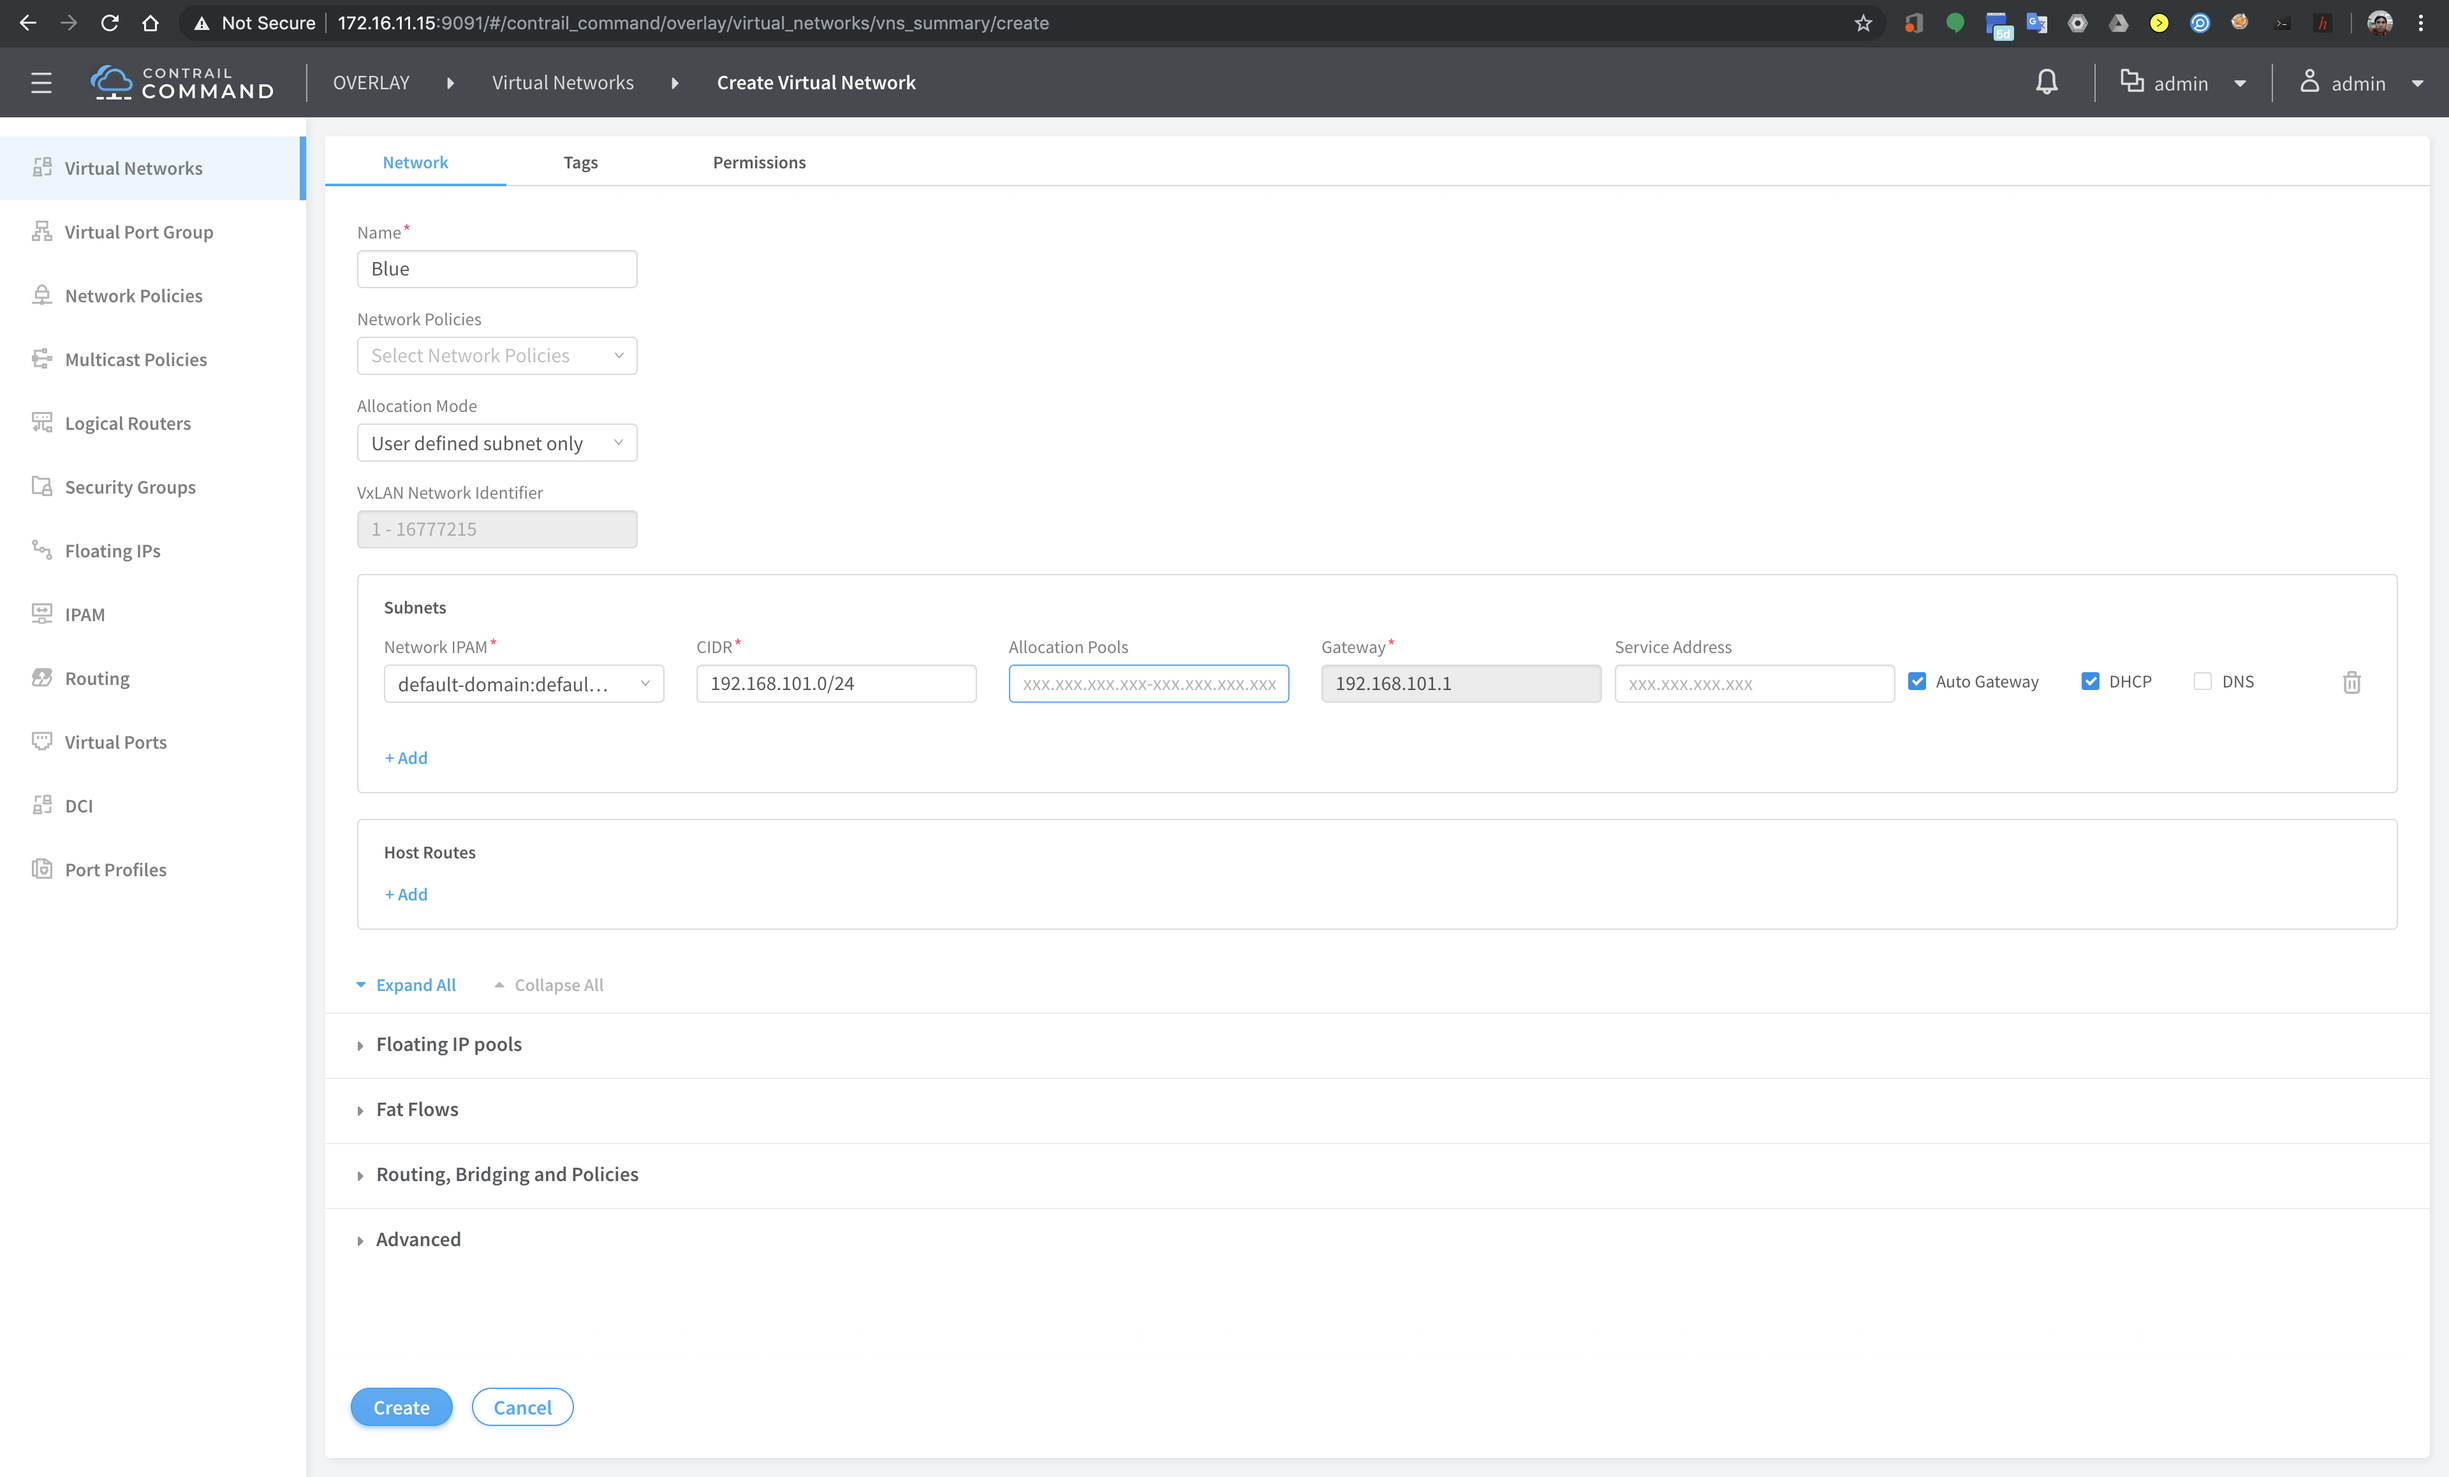
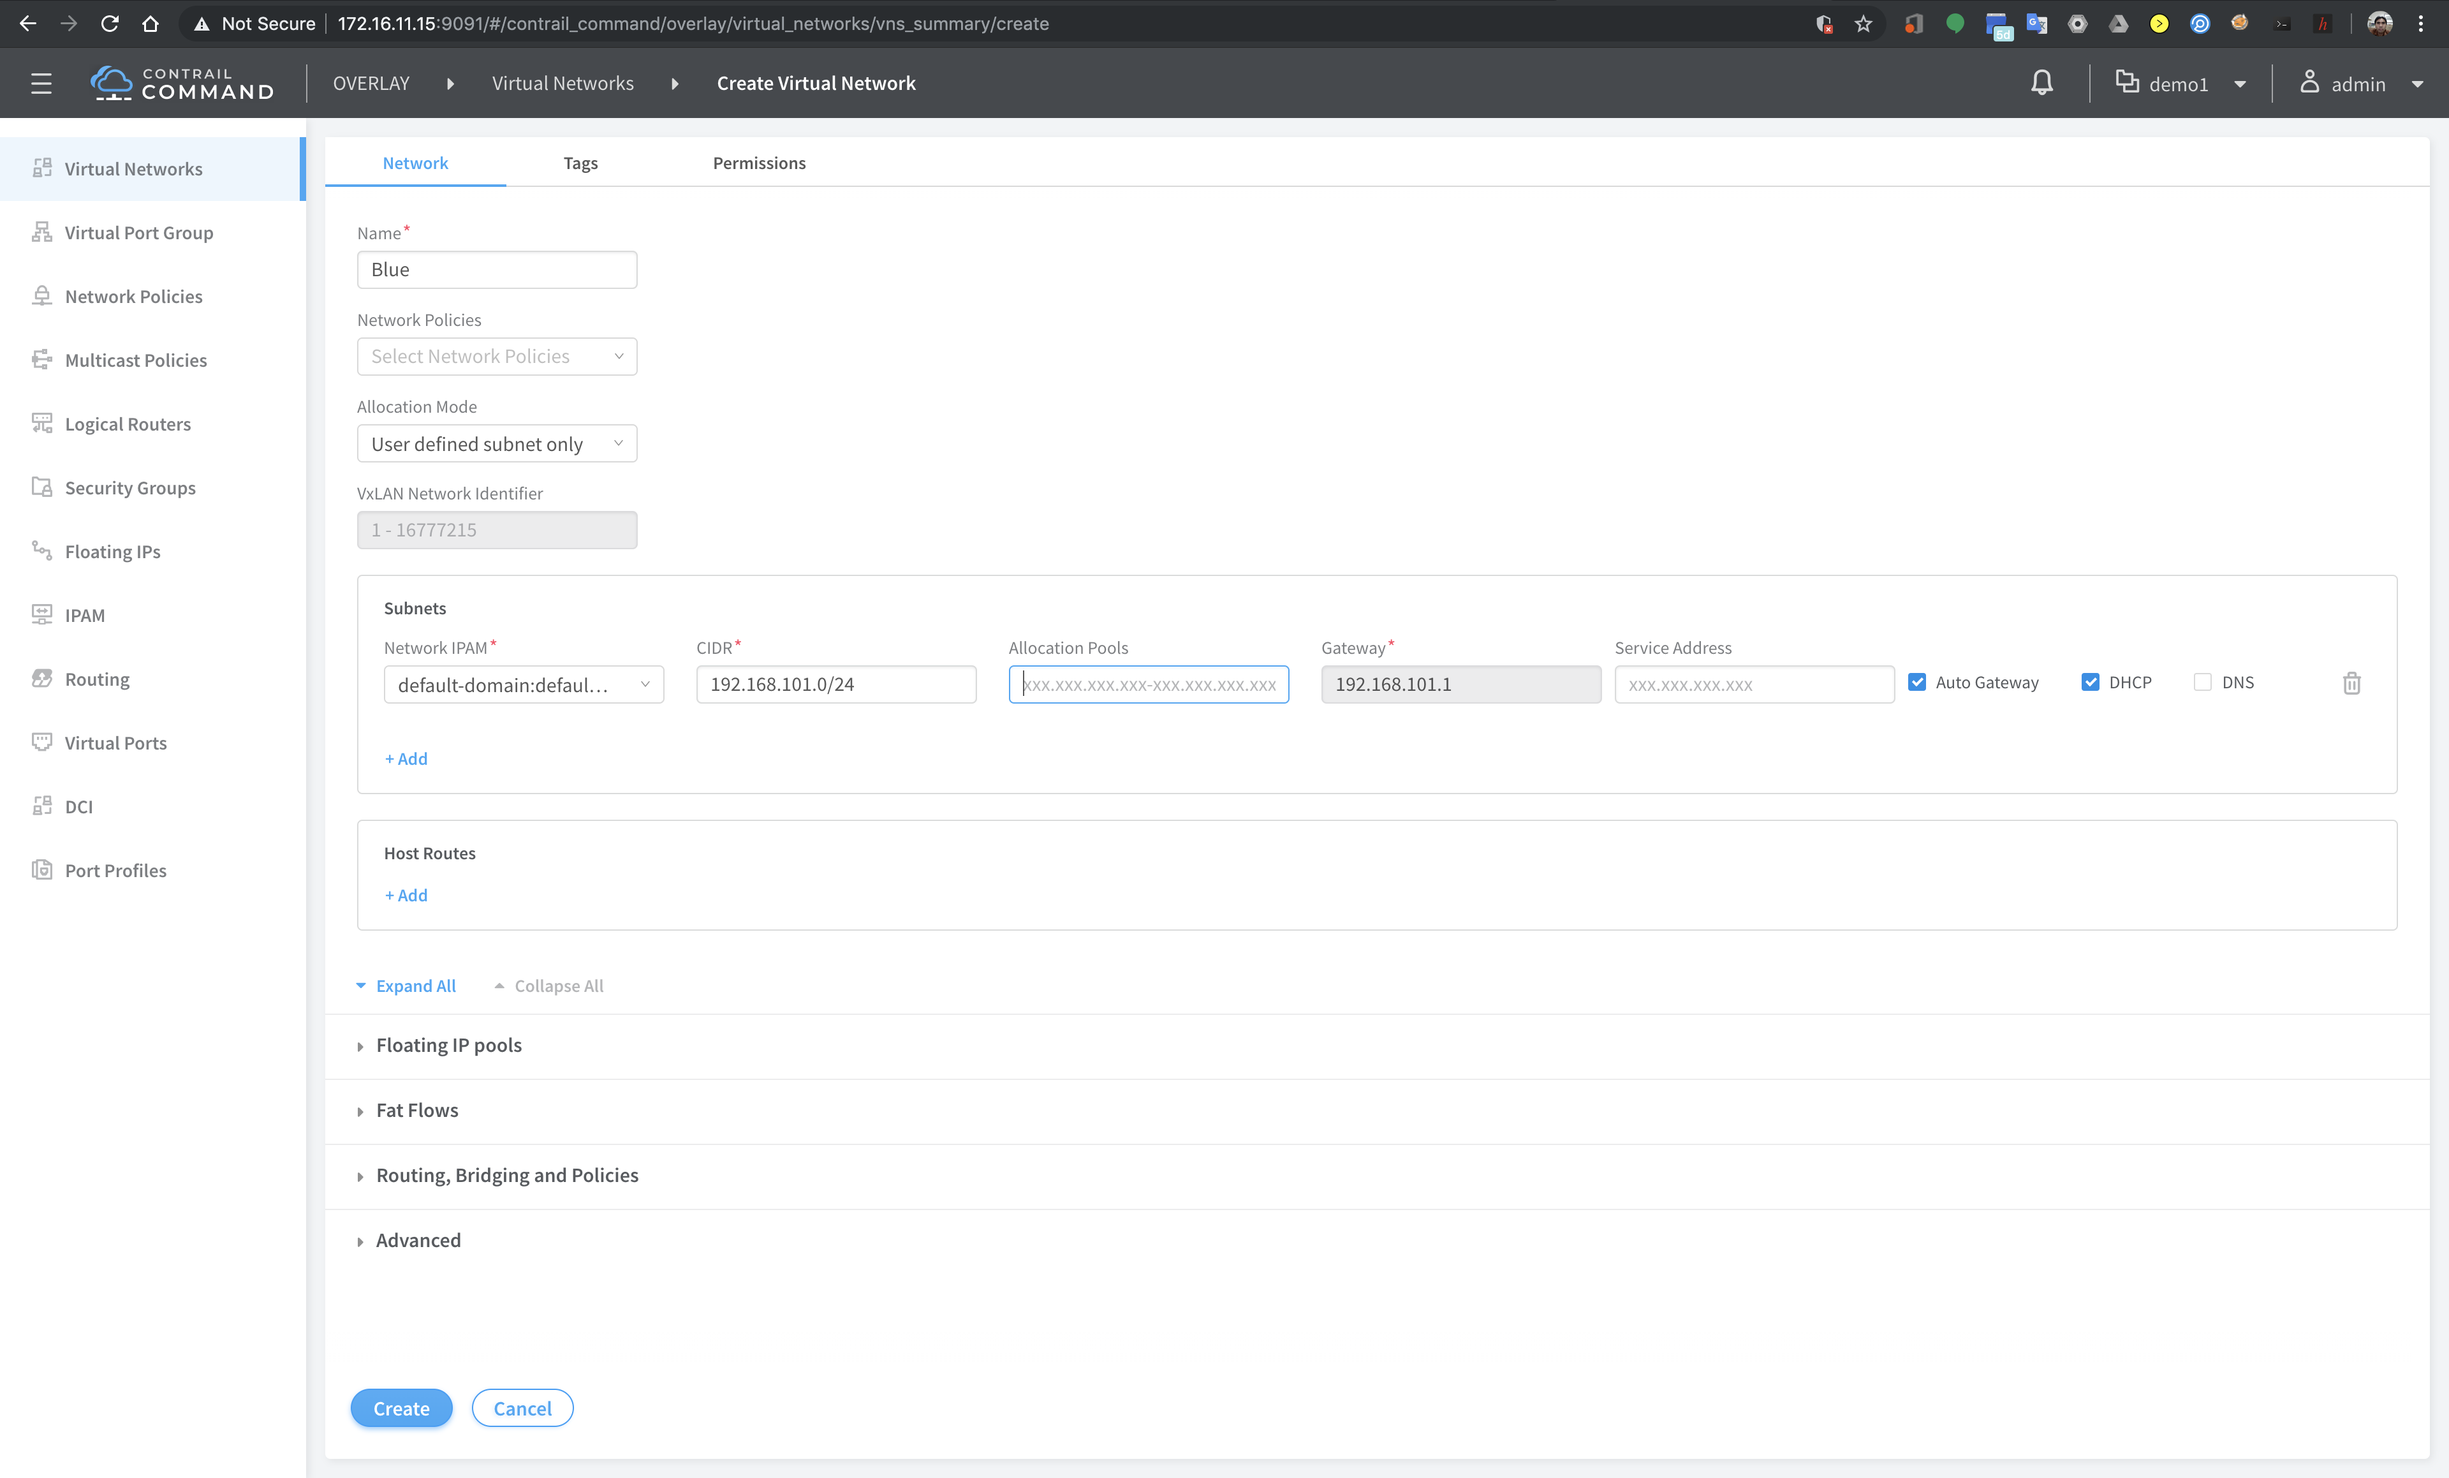
lab4

Changed region(s): [[0.8125, 0.0311, 0.9062, 0.0622]]

diff --git a/contrail/contrail_lab_exercise/lab4/README.md b/contrail/contrail_lab_exercise/lab4/README.md
@@ -1,0 +1,55 @@
+# Extending VN to TOR and attaching BMS
+In this exercise, Virtual network will be extended to TOR Switch and BMS will be connected to the TOR switch
+
+Steps
+1. Access svr1 through its management interface, and record the mac address of port eth1
+![lab4a](images/lab4a.png)
+2. Access switch `leaf` and verify that there is no configuration for interface xe-0/0/2 (where the BMS SVR1 is connected to)
+![lab4b](images/lab4b.png)
+3. Access [contrail command dashboard](https://172.16.11.15:9091)
+4. Select project `Demo1`
+5. From menu, select `Infrastructure` > `Server` and click `create`
+6. For the parameters, use the following :
+	- choose mode : Detailed
+	- workload type : Baremetal
+	- name : svr1_bms
+	- network interfaces:
+		- name : eth1
+		- mac address : <enter the mac address from step 1>
+		- Device/TOR - Interface: leaf1 - xe-0/0/2 (based on the topology)
+   Click `Create`
+![lab4c](images/lab4c.png)
+![lab4d](images/lab4d.png)
+6. From menu, select `Workloads` > `Instances` and click `Create`
+7. Create an instance with the following parameter
+	- Server type : Existing Baremetal server
+	- instance name : svr1
+	- Baremetal node : svr1_bms (the one created on step 5)
+	- Interface : XXX (select interface from svr1_bms)
+	- Virtual network : Blue
+	- VLAN ID : 101
+	- security group : default
+	- Native/untagged: checked
+   Click `create`
+![lab4e](images/lab4e.png)
+![lab4f](images/lab4f.png)
+8. From menu, select `Overlay` > `Security Group` and edit security group `Default`
+![lab4g](images/lab4g.png)
+9. For direction `ingress`, change `Type` from `Security group` to `CIDR` and click `Save`
+![lab4h](images/lab4h.png)
+10. Access switch `leaf` and verify that there is new configuration for interface xe-0/0/2 (where the BMS SVR1 is connected to)
+![lab4i](images/lab4i.png)
+11. Access `svr1` through its management interface, and create file /etc/sysconfig/network-scripts/ifcfg-eth1 with the following content :
+	```
+	BOOTPROTO=dhcp
+	DEVICE=eth1
+	ONBOOT=yes
+	TYPE=Ethernet
+	USERCTL=no
+	```
+![lab4j](images/lab4j.png)
+12. On `svr1`, bring interface eth1 up, and verify that IP address from Virtual network Blue has been assigned to it
+![lab4k](images/lab4k.png)
+13. On `svr1, verify connectivity to `VM1` and `VM2`
+![lab4l](images/lab4l.png)
+

diff --git a/contrail/contrail_lab_exercise/lab3/README.md b/contrail/contrail_lab_exercise/lab3/README.md
@@ -3,6 +3,8 @@ In this lab exercise, virtual network will be created and virtual machines will 
 
 Steps
 1. Access [contrail command dashboard](https://172.16.11.15:9091)
+2. Select project `Demo1`
+![lab3](images/lab3.png)
 2. From menu, select `Overlay` > `Virtual Networks` and click `Create`
 3. Create virtual network with the following parameters
     - name : Blue

diff --git a/contrail/contrail_lab_exercise/README.md b/contrail/contrail_lab_exercise/README.md
@@ -2,3 +2,4 @@
 ## [Uploading image, create flavors and projects](lab1/)
 ## [Discovering DC Fabric](lab2/)
 ## [Configuring virtual networks and virtual machine](lab3/)
+## [Extending VN to TOR and attaching BMS](lab4/)
